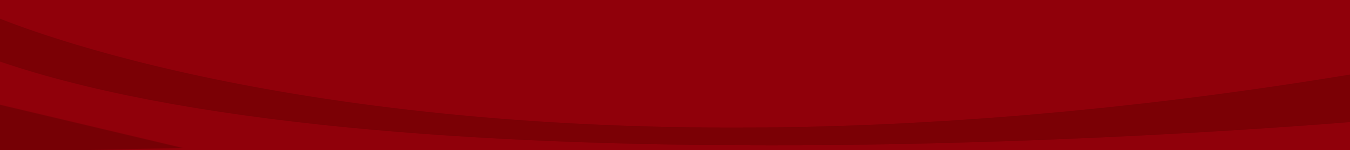
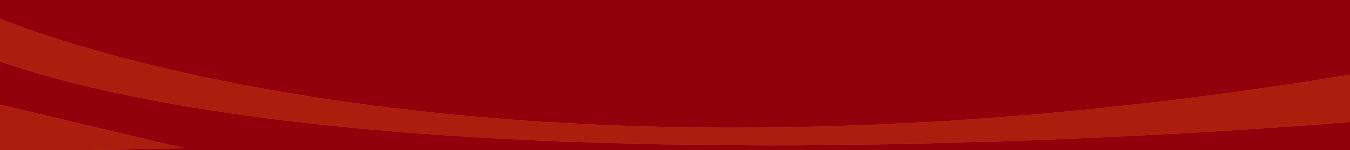
更换了顶部的图片和学院logo，在顶部设为首页的连接处添加两根竖线

Changed region(s): [[0.0, 0.1333, 1.0, 0.9867], [0.0, 0.6933, 0.1556, 1.0]]

diff --git a/front-end/template/header.html b/front-end/template/header.html
@@ -24,7 +24,7 @@
 						<img src="../imgs/logo.png">
 						<div class="func-link pull-right">
 							<a target="blank" href="http://www.cdu.edu.cn/">学校首页</a>
-							<a href="javascript:void(0)" onclick="SetHome(this,window.location)">设为首页</a>
+							<a href="javascript:void(0)" onclick="SetHome(this,window.location)">|&nbsp;设为首页&nbsp;|</a>
 							<a href="javascript:void(0)" onclick="collect(document.title,window.location)">加入收藏</a>
 						</div>
 					</div>
